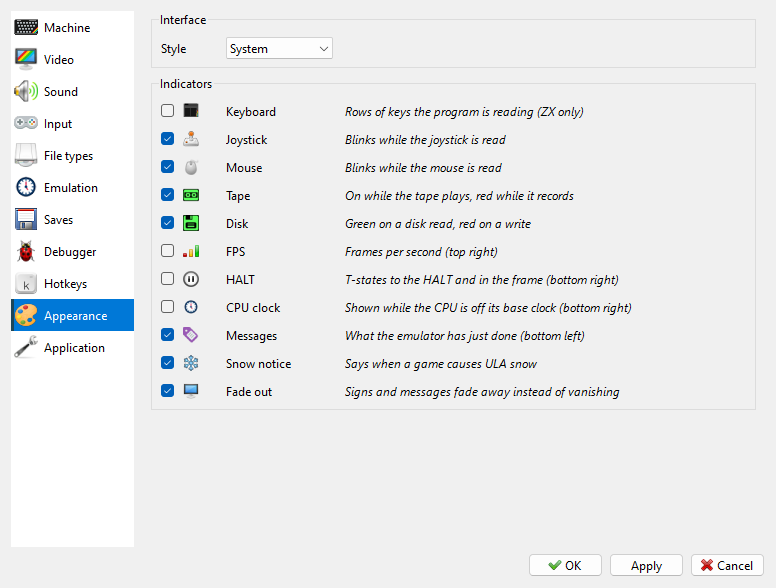
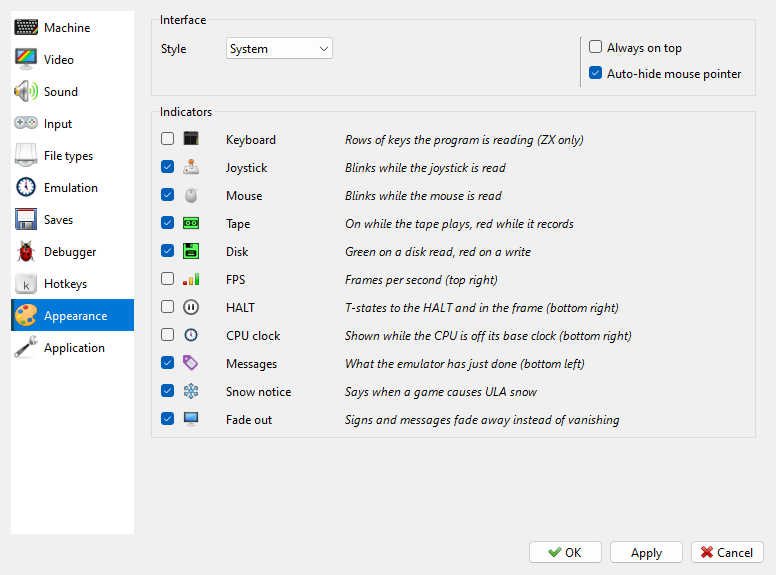
manual: Always on top and Auto-hide mouse pointer on the Appearance page, its picture

diff --git a/docs/manual/view.md b/docs/manual/view.md
@@ -134,7 +134,8 @@ fullscreen next time.
 **View > Always on Top** keeps the main window over the windows of other programs, even
 when another program is in use. The program's own windows - the **Debugger**, the **Tape
 Player**, **Options**, a message - still open over it. It is off in fullscreen and comes
-back when the window does. The switch is remembered.
+back when the window does. The switch is remembered; it is also **Always on top** on the
+[Appearance page](options-appearance.md) of **Options**.
 
 ## Auto-Hide Pointer
 
@@ -143,7 +144,8 @@ back when the window does. The switch is remembered.
 
 **View > Auto-Hide Pointer** hides the mouse pointer once it stays still over the picture
 for 2 seconds, in a window and in fullscreen. A move brings it back; over the bars, a menu
-or a dialog it stays. It is on by default, and the switch is remembered.
+or a dialog it stays. It is on by default, and the switch is remembered; it is also
+**Auto-hide mouse pointer** on the [Appearance page](options-appearance.md) of **Options**.
 
 ## Shaders
 

diff --git a/docs/manual/options-appearance.md b/docs/manual/options-appearance.md
@@ -1,12 +1,14 @@
 # Appearance page
 
-```{index} Appearance page, Style, interface style
+```{index} Appearance page, Style, interface style, Always on top, Auto-hide mouse pointer
 ```
 
 ![The Appearance page](images/options-appearance.png)
 
 - **Interface** - **Style**: **System** (the look of your system) or one of seven bundled
-  styles.
+  styles. On the right, **Always on top** and **Auto-hide mouse pointer** - the same switches
+  as [Always on Top](view.md#always-on-top) and [Auto-Hide Pointer](view.md#auto-hide-pointer)
+  in the **View** menu.
 - **Indicators** - which signs are shown over the picture. See
   [Indicators on the picture](#indicators-on-the-picture).
 
